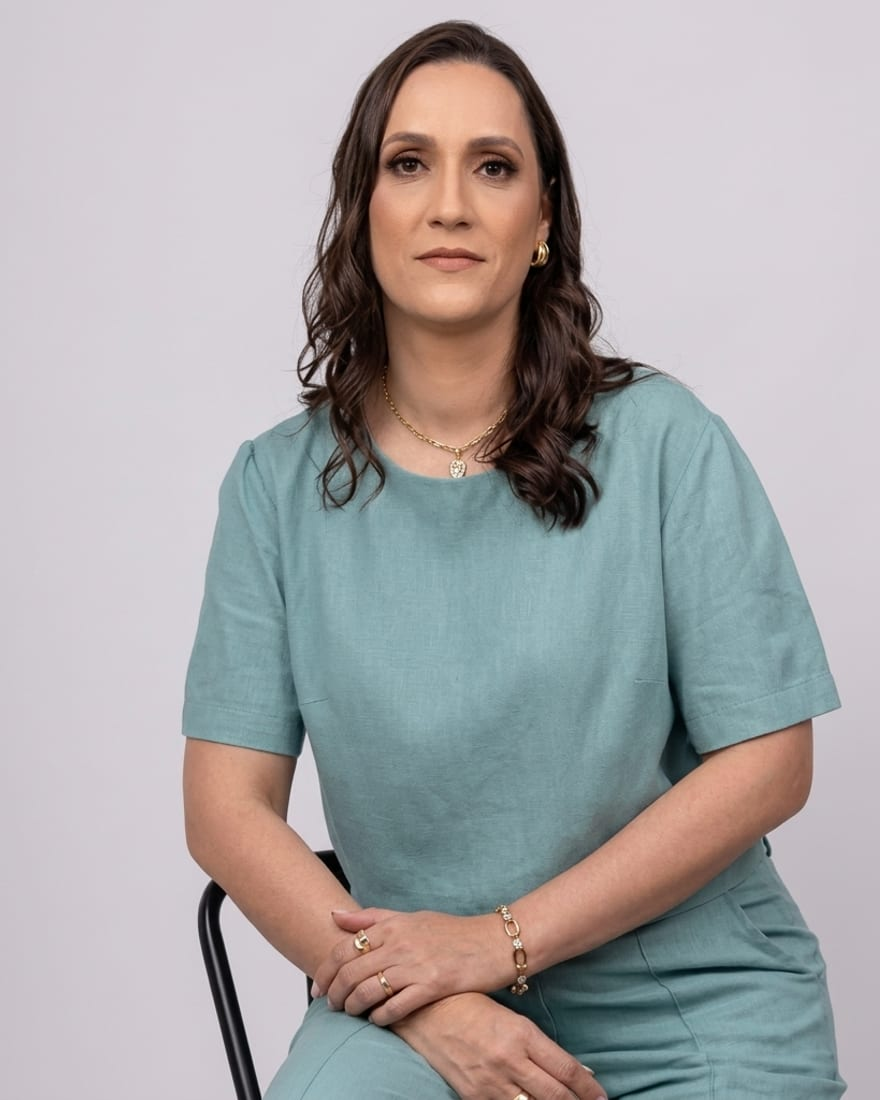
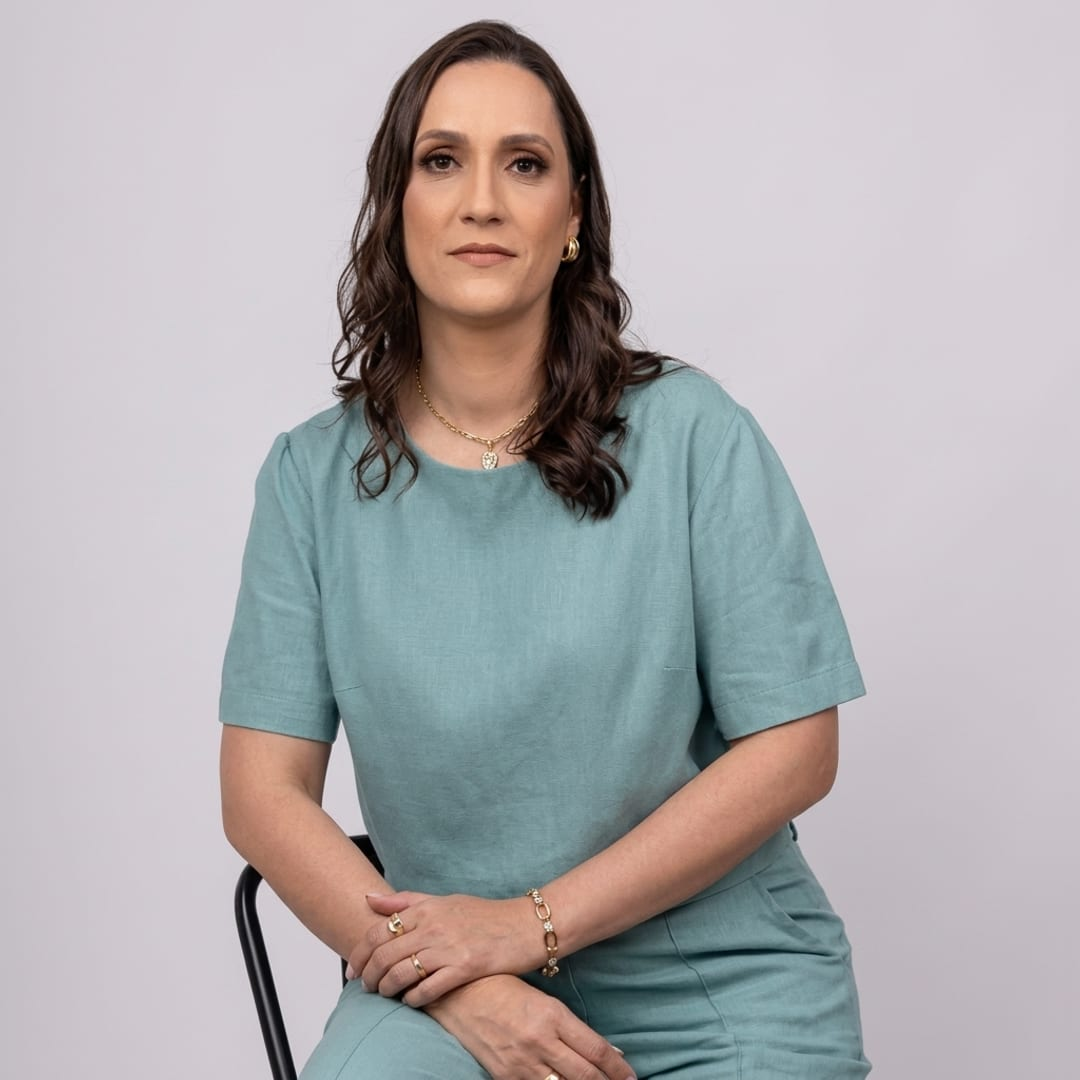
Seção Sobre dividida meio a meio com foto quadrada maior

diff --git a/css/style.css b/css/style.css
@@ -269,13 +269,13 @@ h2 { font-size: clamp(30px, 4vw, var(--ae-text-3xl)); margin-bottom: 14px; }
    SOBRE
    ============================================================ */
 .about {
-  display: grid; grid-template-columns: minmax(280px, 440px) 1fr;
-  gap: 56px; align-items: center;
+  display: grid; grid-template-columns: 1fr 1fr;
+  gap: 64px; align-items: center;
   padding-top: 96px; padding-bottom: 96px;
 }
 .about__photo {
   position: relative;
-  aspect-ratio: 4 / 5;
+  aspect-ratio: 1 / 1;
   background: linear-gradient(160deg, var(--ae-teal-50), var(--ae-teal-100));
   border-radius: var(--ae-radius-lg);
   display: flex; align-items: center; justify-content: center;

diff --git a/index.html b/index.html
@@ -151,7 +151,7 @@
     <section class="about wrap" id="sobre" aria-label="Sobre a Andréia">
       <div class="about__media" data-reveal>
         <div class="about__photo">
-          <img src="assets/andreia.jpg" alt="Andréia Eiras, fisioterapeuta especializada em saúde da mulher" class="about__portrait" loading="lazy" width="880" height="1100">
+          <img src="assets/andreia.jpg" alt="Andréia Eiras, fisioterapeuta especializada em saúde da mulher" class="about__portrait" loading="lazy" width="1080" height="1080">
         </div>
       </div>
       <div class="about__text">
